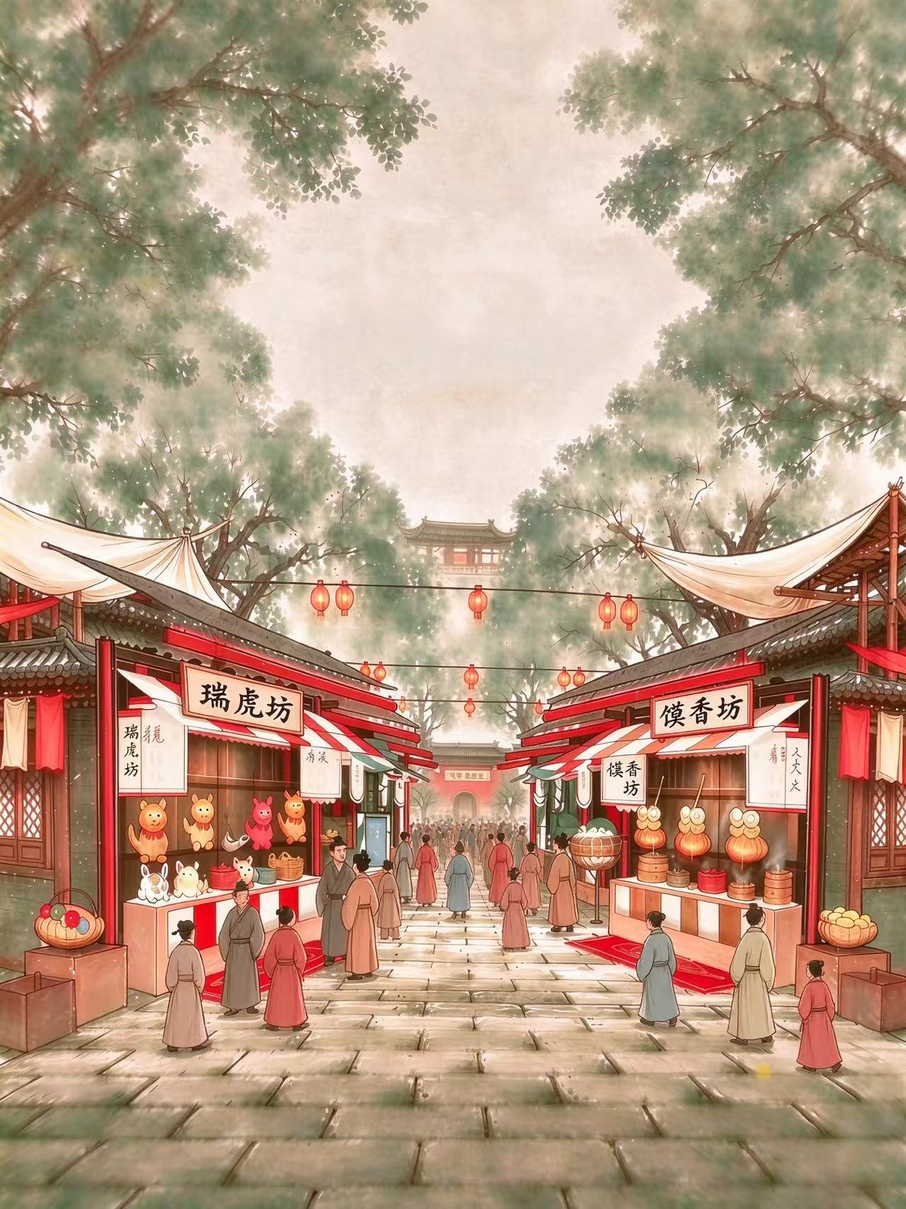
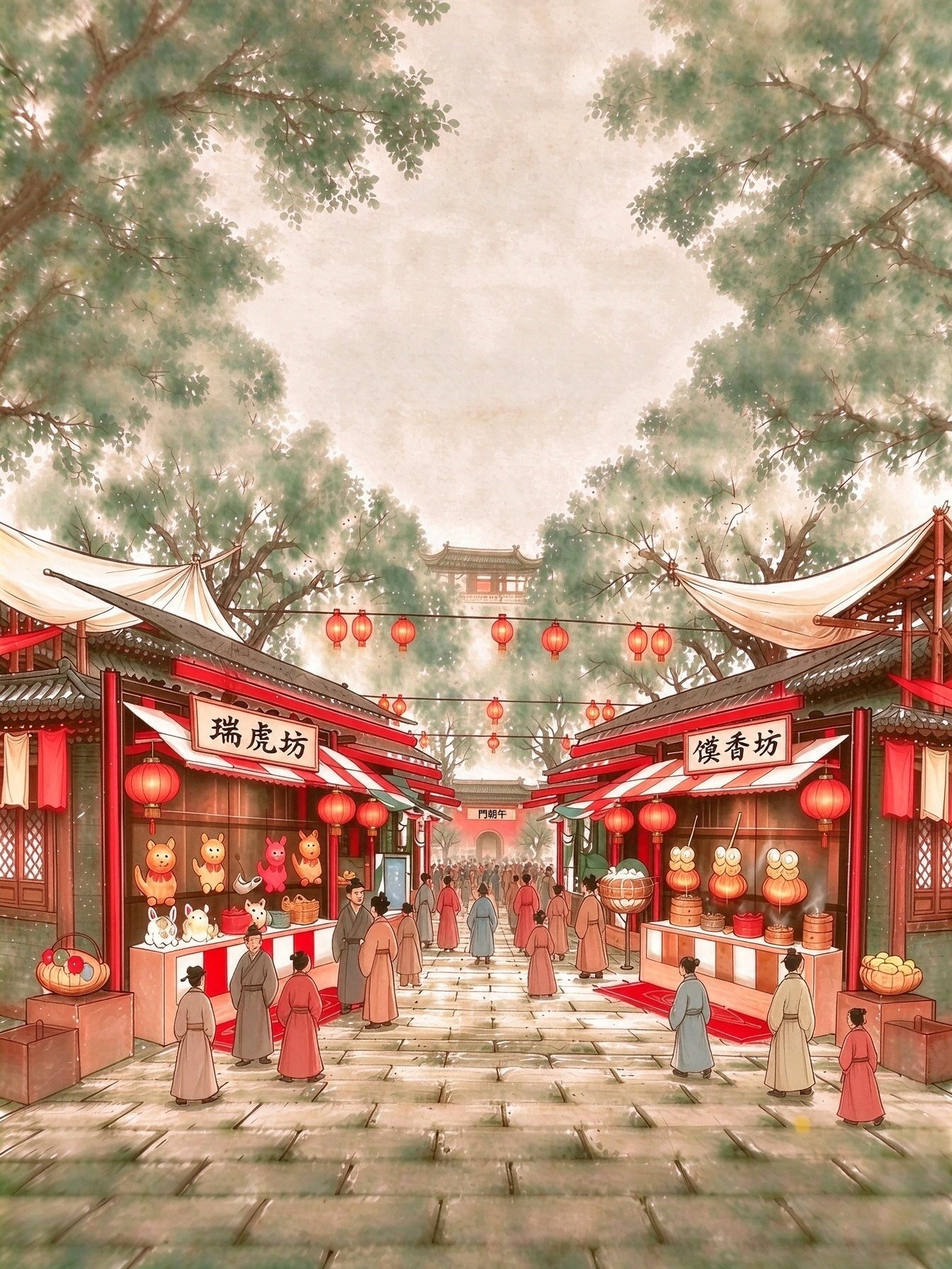
第一街道换新背景；章节字幕改为等玩家轻触再消失

diff --git a/app.js b/app.js
@@ -291,13 +291,19 @@
     capsShown[n] = true;
     var ov = document.createElement('div');
     ov.className = 'act-caption';
-    ov.innerHTML = '<div class="act-caption__card">' + src.innerHTML + '</div>';
+    ov.innerHTML = '<div class="act-caption__card">' + src.innerHTML + '<p class="act-caption__hint">轻触继续</p></div>';
     document.body.appendChild(ov);
     requestAnimationFrame(function () { ov.classList.add('is-on'); });
-    setTimeout(function () {
+    var dismissed = false;
+    function dismiss() {
+      if (dismissed) return;
+      dismissed = true;
       ov.classList.remove('is-on');
       setTimeout(function () { if (ov.parentNode) ov.parentNode.removeChild(ov); }, 380);
-    }, 1150);
+    }
+    ov.addEventListener('click', dismiss);
+    ov.addEventListener('touchstart', dismiss, { passive: true });
+    window.__dismissCaption = dismiss;
   }
 
   function goTo(n, delay) {

diff --git a/index.html b/index.html
@@ -8,7 +8,7 @@
 <title>羲皇寻踪 · 淮阳太昊陵</title>
 <meta name="description" content="从俯瞰太昊陵，到太昊陵前的集市，穿过内街推开午朝门，完成陵庙打卡，领取一张带盖章动画的完赛证书。">
 <link rel="stylesheet" href="tokens.css?v=20261125c">
-<link rel="stylesheet" href="app.css?v=20261125k">
+<link rel="stylesheet" href="app.css?v=20261125l">
 </head>
 <body>
   <button class="global-back" id="globalBack" type="button" aria-label="回到上一步">← 上一步</button>

diff --git a/app.css b/app.css
@@ -4805,3 +4805,13 @@ html, body { overscroll-behavior-y: none; }
 .act-caption__card p:last-child {
   margin: 0; font-size: 13.5px; line-height: 1.78; color: #6b5340; letter-spacing: .02em;
 }
+
+.act-caption__hint {
+  margin: 18px 0 0 !important;
+  font-size: 11.5px !important;
+  letter-spacing: .3em !important;
+  color: #a08363 !important;
+  opacity: .85;
+  animation: capHint 2.4s ease-in-out infinite;
+}
+@keyframes capHint { 0%, 100% { opacity: .45; } 50% { opacity: .95; } }
